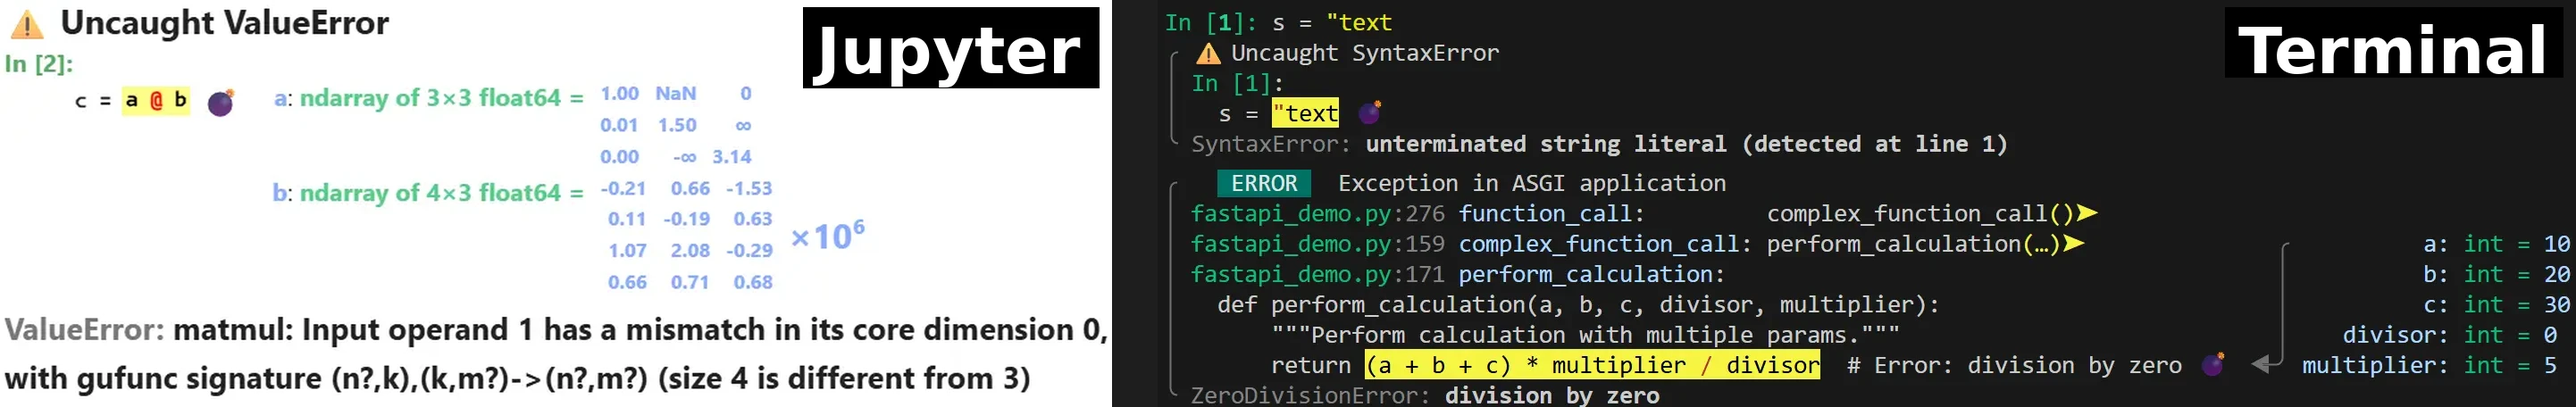
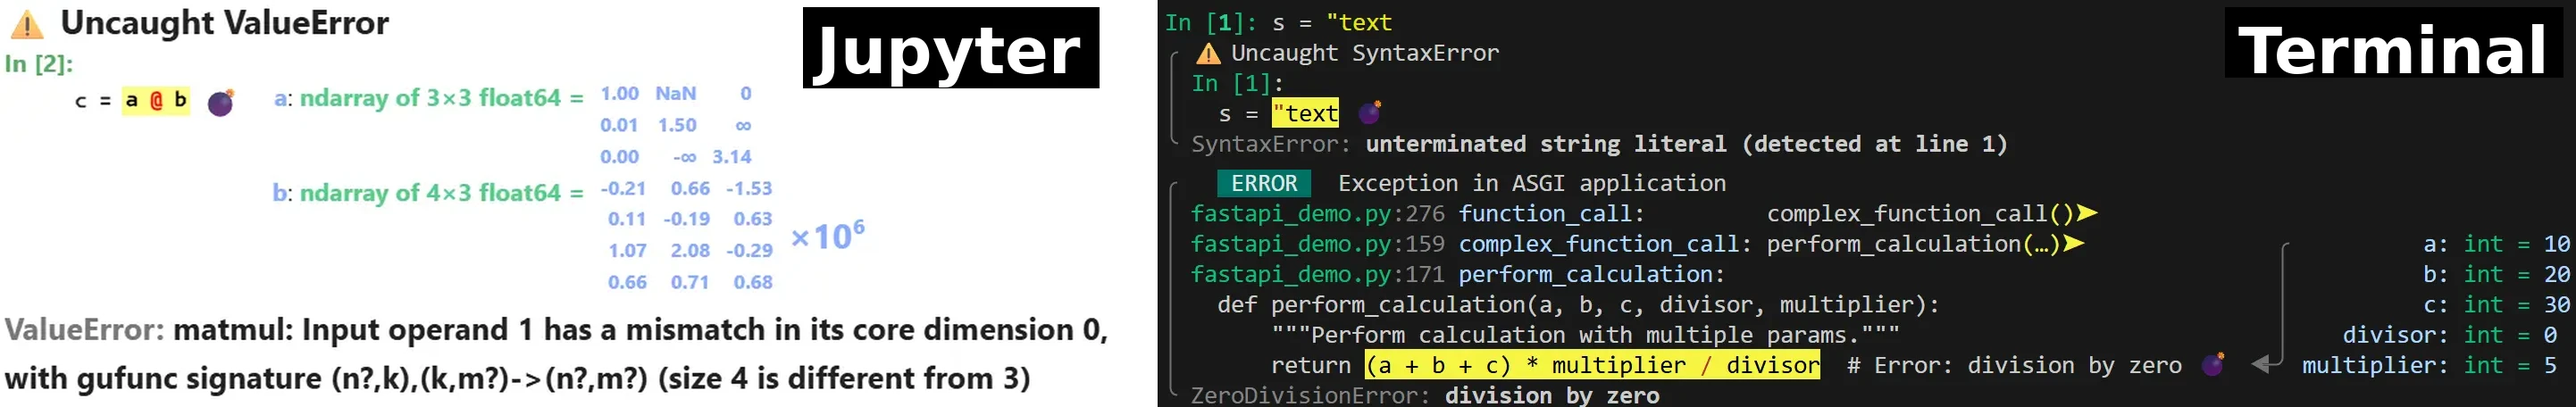
Regenerated screenshots with transparent background.

Changed region(s): [[0.4057, 0.0, 0.4681, 1.0]]

diff --git a/docs/screenshots/scripts/create_group_comparison.py b/docs/screenshots/scripts/create_group_comparison.py
@@ -10,7 +10,7 @@ OUTPUT_FILE = Path(__file__).parent.parent / "group-comparison.webp"
 
 # Target width to match chain-comparison.webp
 TARGET_WIDTH = 2884
-BACKGROUND_COLOR = "#1e1e1e"
+BACKGROUND_COLOR = (0, 0, 0, 0)  # Transparent
 LABEL_COLOR = "#ffffff"
 LABEL_BG_COLOR = "#000000"
 
@@ -108,8 +108,8 @@ def create_comparison():
     total_width = html_labeled.width + tty_labeled.width
     total_height = target_height
 
-    # Create canvas and paste images
-    canvas = Image.new("RGB", (total_width, total_height), BACKGROUND_COLOR)
+    # Create canvas with transparent background
+    canvas = Image.new("RGBA", (total_width, total_height), BACKGROUND_COLOR)
     canvas.paste(html_labeled, (0, 0))
     canvas.paste(tty_labeled, (html_labeled.width, 0))
 

diff --git a/docs/screenshots/scripts/create_chain_comparison.py b/docs/screenshots/scripts/create_chain_comparison.py
@@ -10,7 +10,7 @@ OUTPUT_FILE = Path(__file__).parent.parent / "chain-comparison.webp"
 
 # Gap between images
 GAP = 0
-BACKGROUND_COLOR = "#1e1e1e"
+BACKGROUND_COLOR = (0, 0, 0, 0)  # Transparent
 LABEL_COLOR = "#ffffff"
 LABEL_BG_COLOR = "#000000"
 
@@ -90,8 +90,8 @@ def create_comparison():
     total_width = with_tr_labeled.width + GAP + without_labeled.width
     total_height = target_height
 
-    # Create canvas and paste images
-    canvas = Image.new("RGB", (total_width, total_height), BACKGROUND_COLOR)
+    # Create canvas with transparent background
+    canvas = Image.new("RGBA", (total_width, total_height), BACKGROUND_COLOR)
     canvas.paste(with_tr_labeled, (0, 0))
     canvas.paste(without_labeled, (with_tr_labeled.width + GAP, 0))
 

diff --git a/docs/screenshots/scripts/create_features_composite.py b/docs/screenshots/scripts/create_features_composite.py
@@ -10,7 +10,7 @@ OUTPUT_FILE = Path(__file__).parent.parent / "features-composite.webp"
 
 # Target width to match chain-comparison.webp
 TARGET_WIDTH = 2884
-BACKGROUND_COLOR = "#1e1e1e"
+BACKGROUND_COLOR = (0, 0, 0, 0)  # Transparent
 LABEL_COLOR = "#ffffff"
 LABEL_BG_COLOR = "#000000"
 
@@ -104,8 +104,8 @@ def create_composite():
     print(f"  Gap between columns: {gap}")
     print(f"  Canvas: {TARGET_WIDTH}x{canvas_height}")
 
-    # Create canvas
-    canvas = Image.new("RGB", (TARGET_WIDTH, canvas_height), BACKGROUND_COLOR)
+    # Create canvas with transparent background
+    canvas = Image.new("RGBA", (TARGET_WIDTH, canvas_height), BACKGROUND_COLOR)
 
     # Place numpy on left
     canvas.paste(numpy_scaled, (0, 0))
